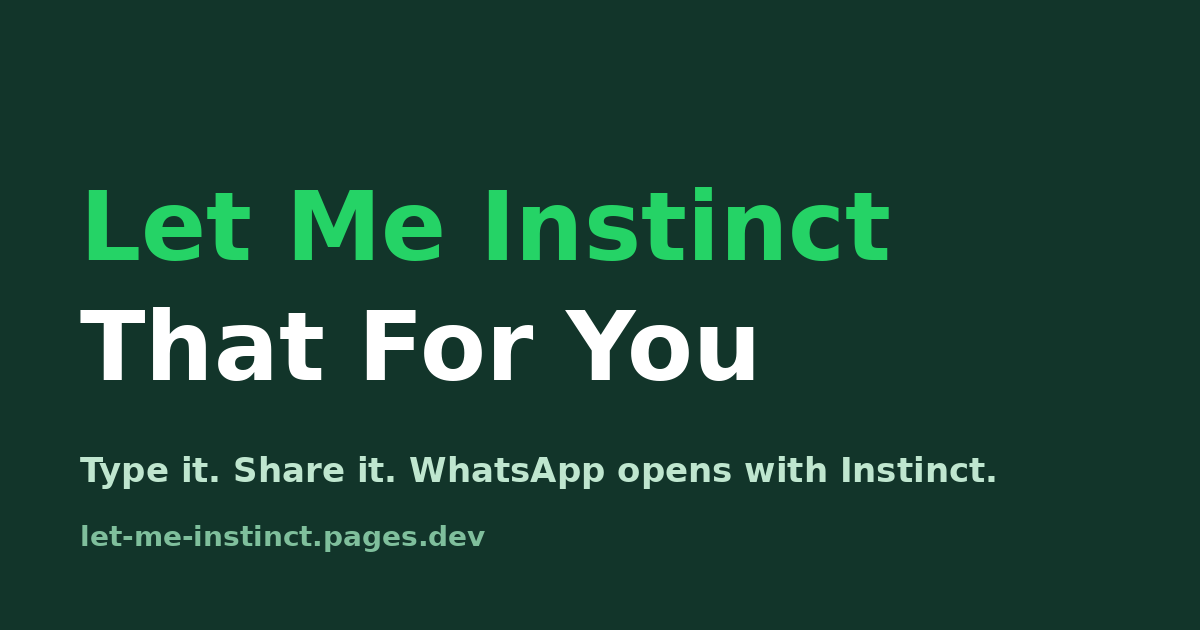
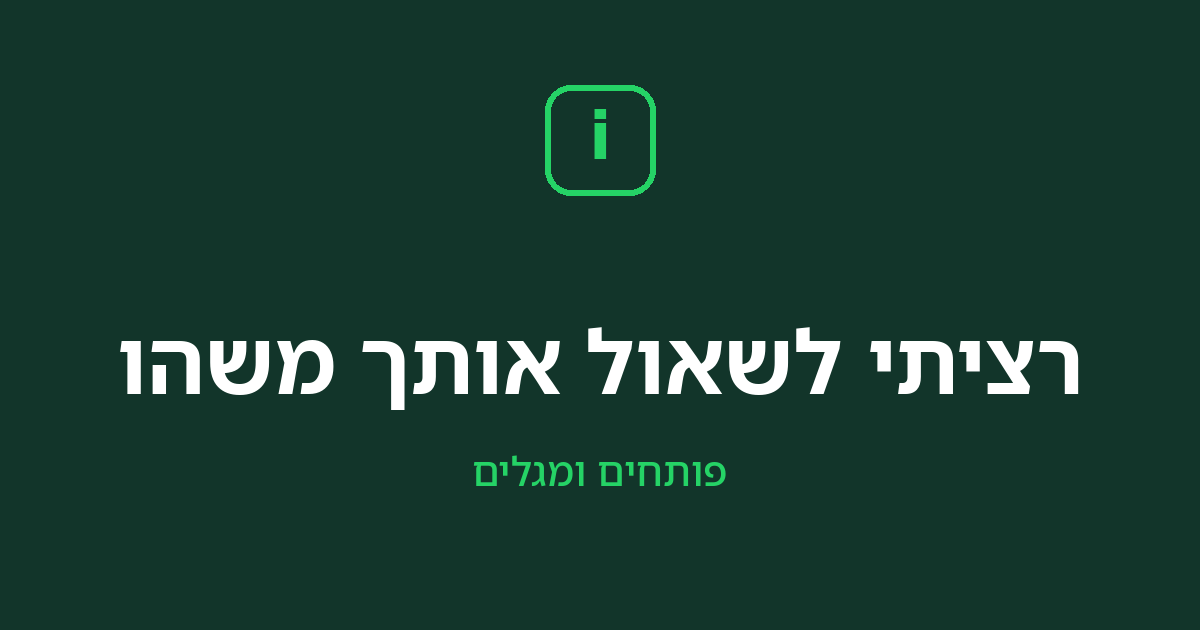
OG preview: non-spoiling title/description/image (user request 26.10)

diff --git a/index.html b/index.html
@@ -11,8 +11,8 @@
 <meta property="og:type" content="website">
 <meta property="og:site_name" content="Let Me Instinct That For You">
 <meta property="og:locale" content="he_IL">
-<meta property="og:title" content="Let Me Instinct That For You">
-<meta property="og:description" content="במקום להסביר, שולחים לינק. ההודעה מוקלדת, וואטסאפ נפתח עם אינסטינקט, ורק נשאר ללחוץ שלח.">
+<meta property="og:title" content="רציתי לשאול אותך משהו">
+<meta property="og:description" content="פותחים ומגלים">
 <meta property="og:url" content="https://let-me-instinct.pages.dev/">
 <meta property="og:image" content="https://let-me-instinct.pages.dev/og.png">
 <meta name="twitter:card" content="summary_large_image">
